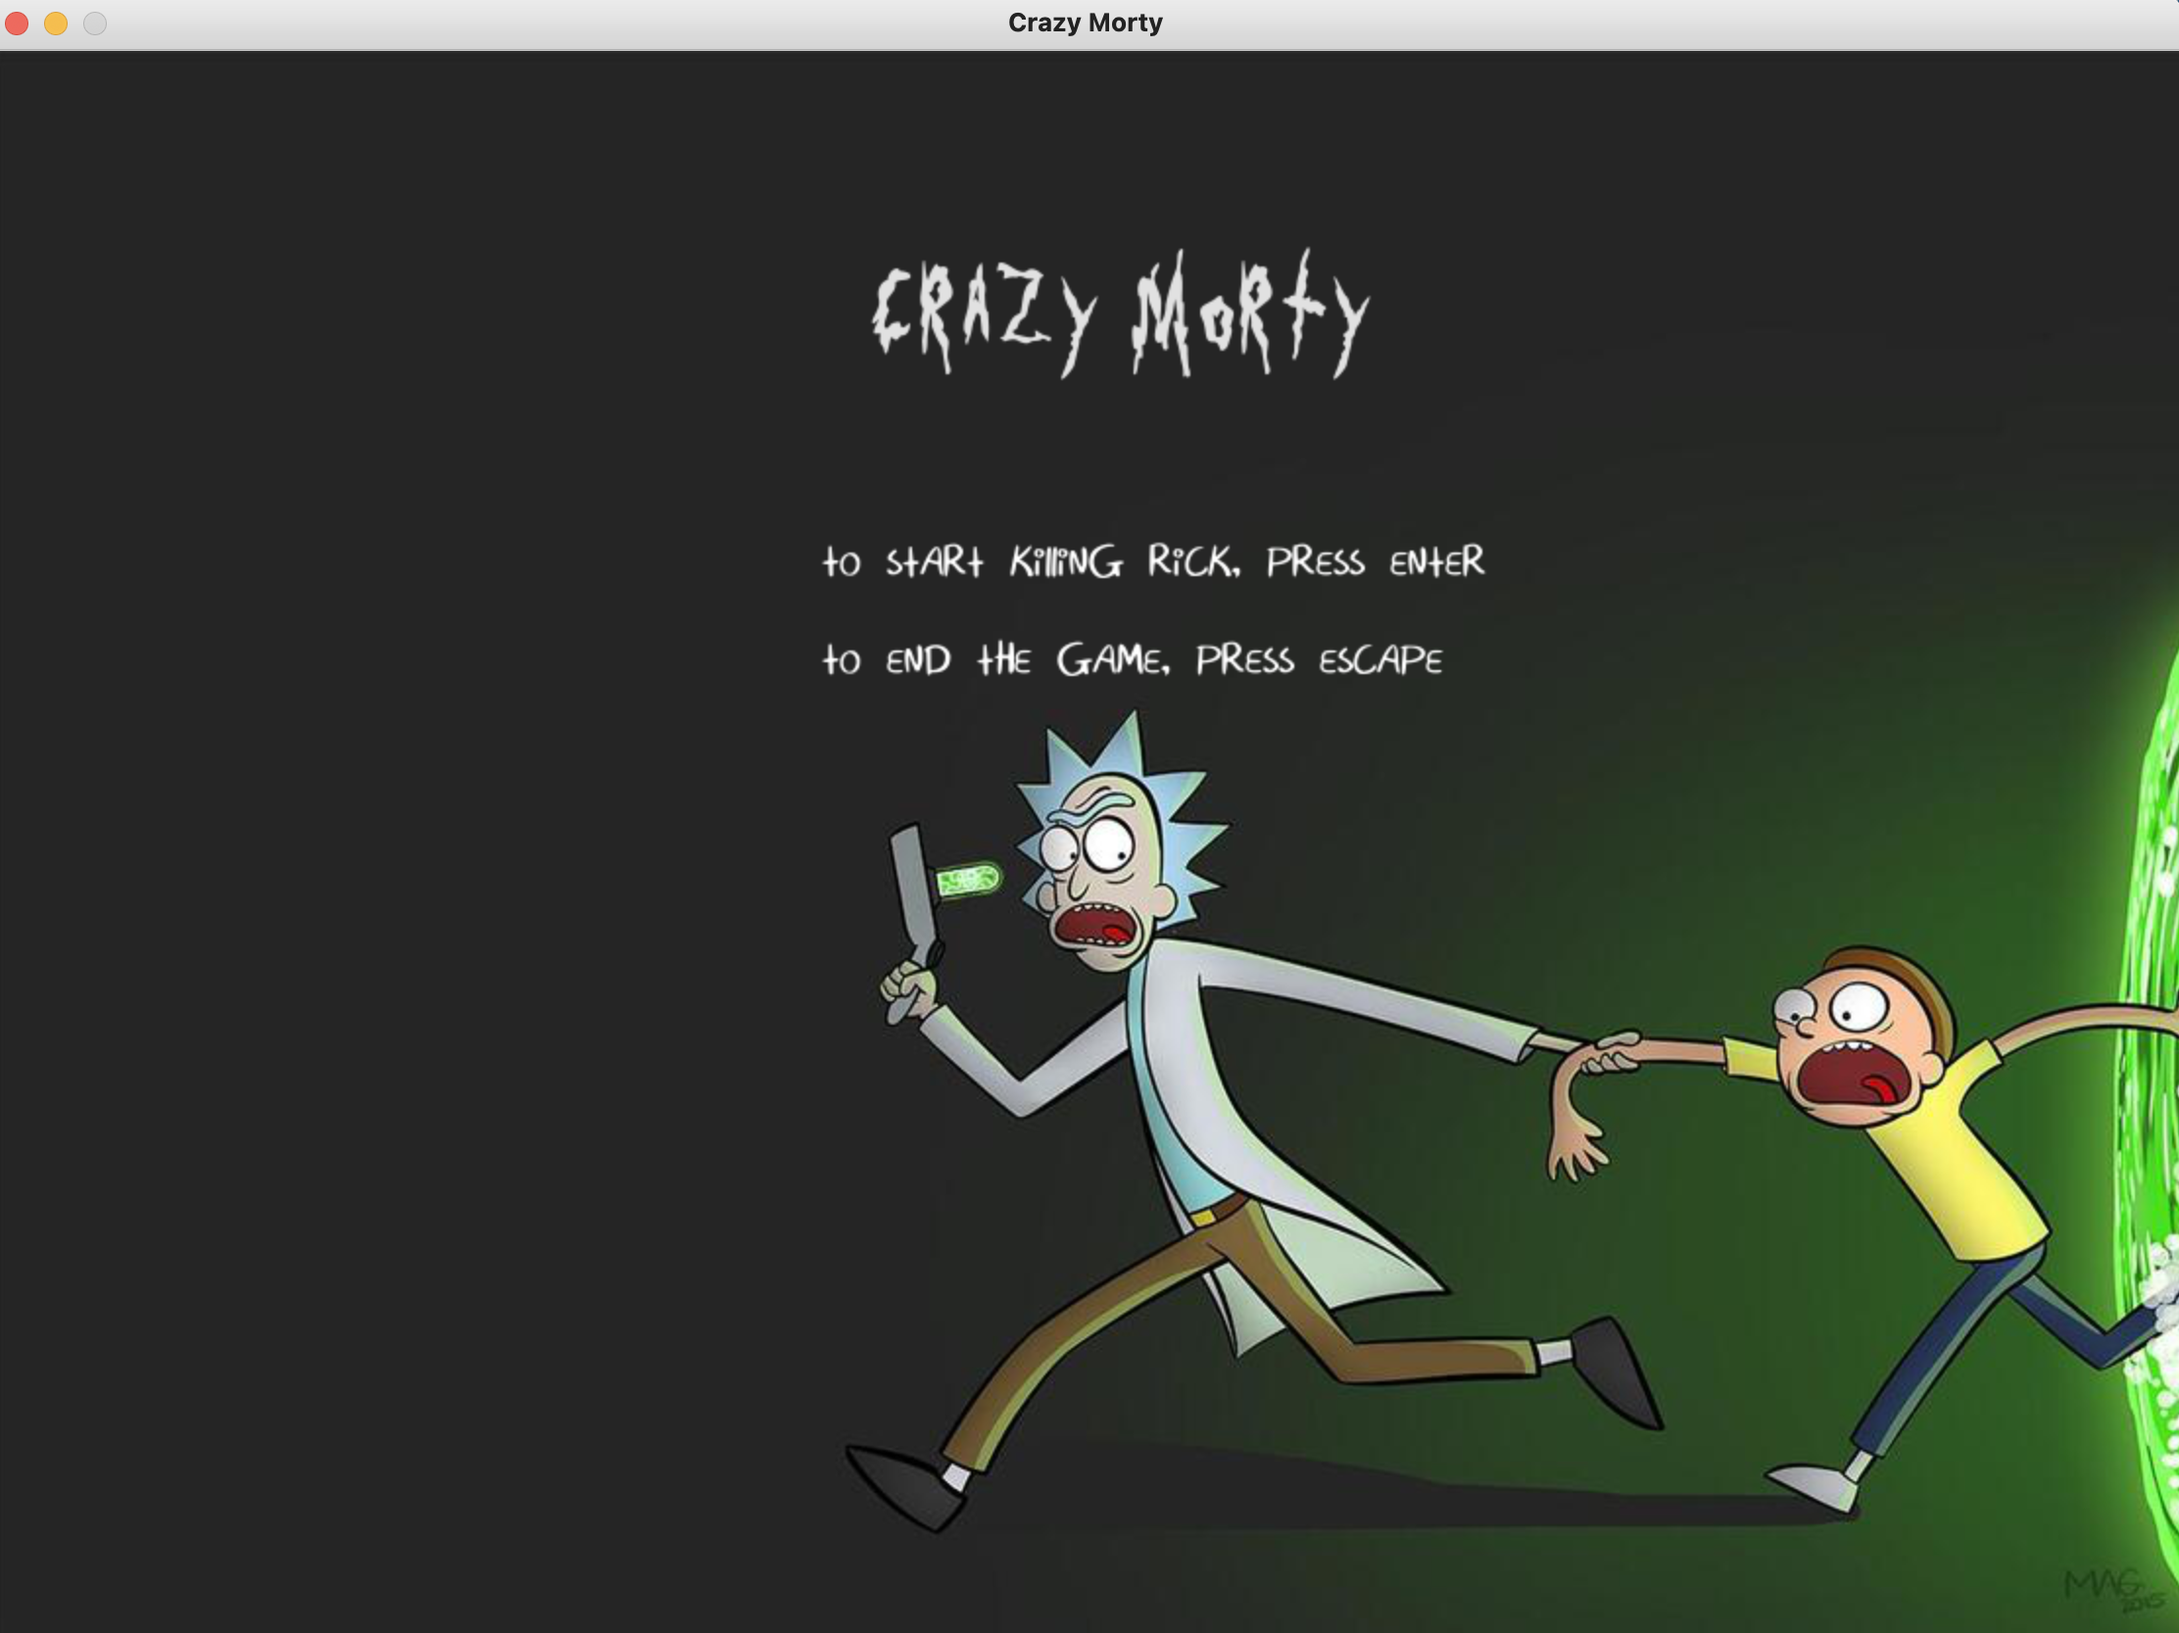
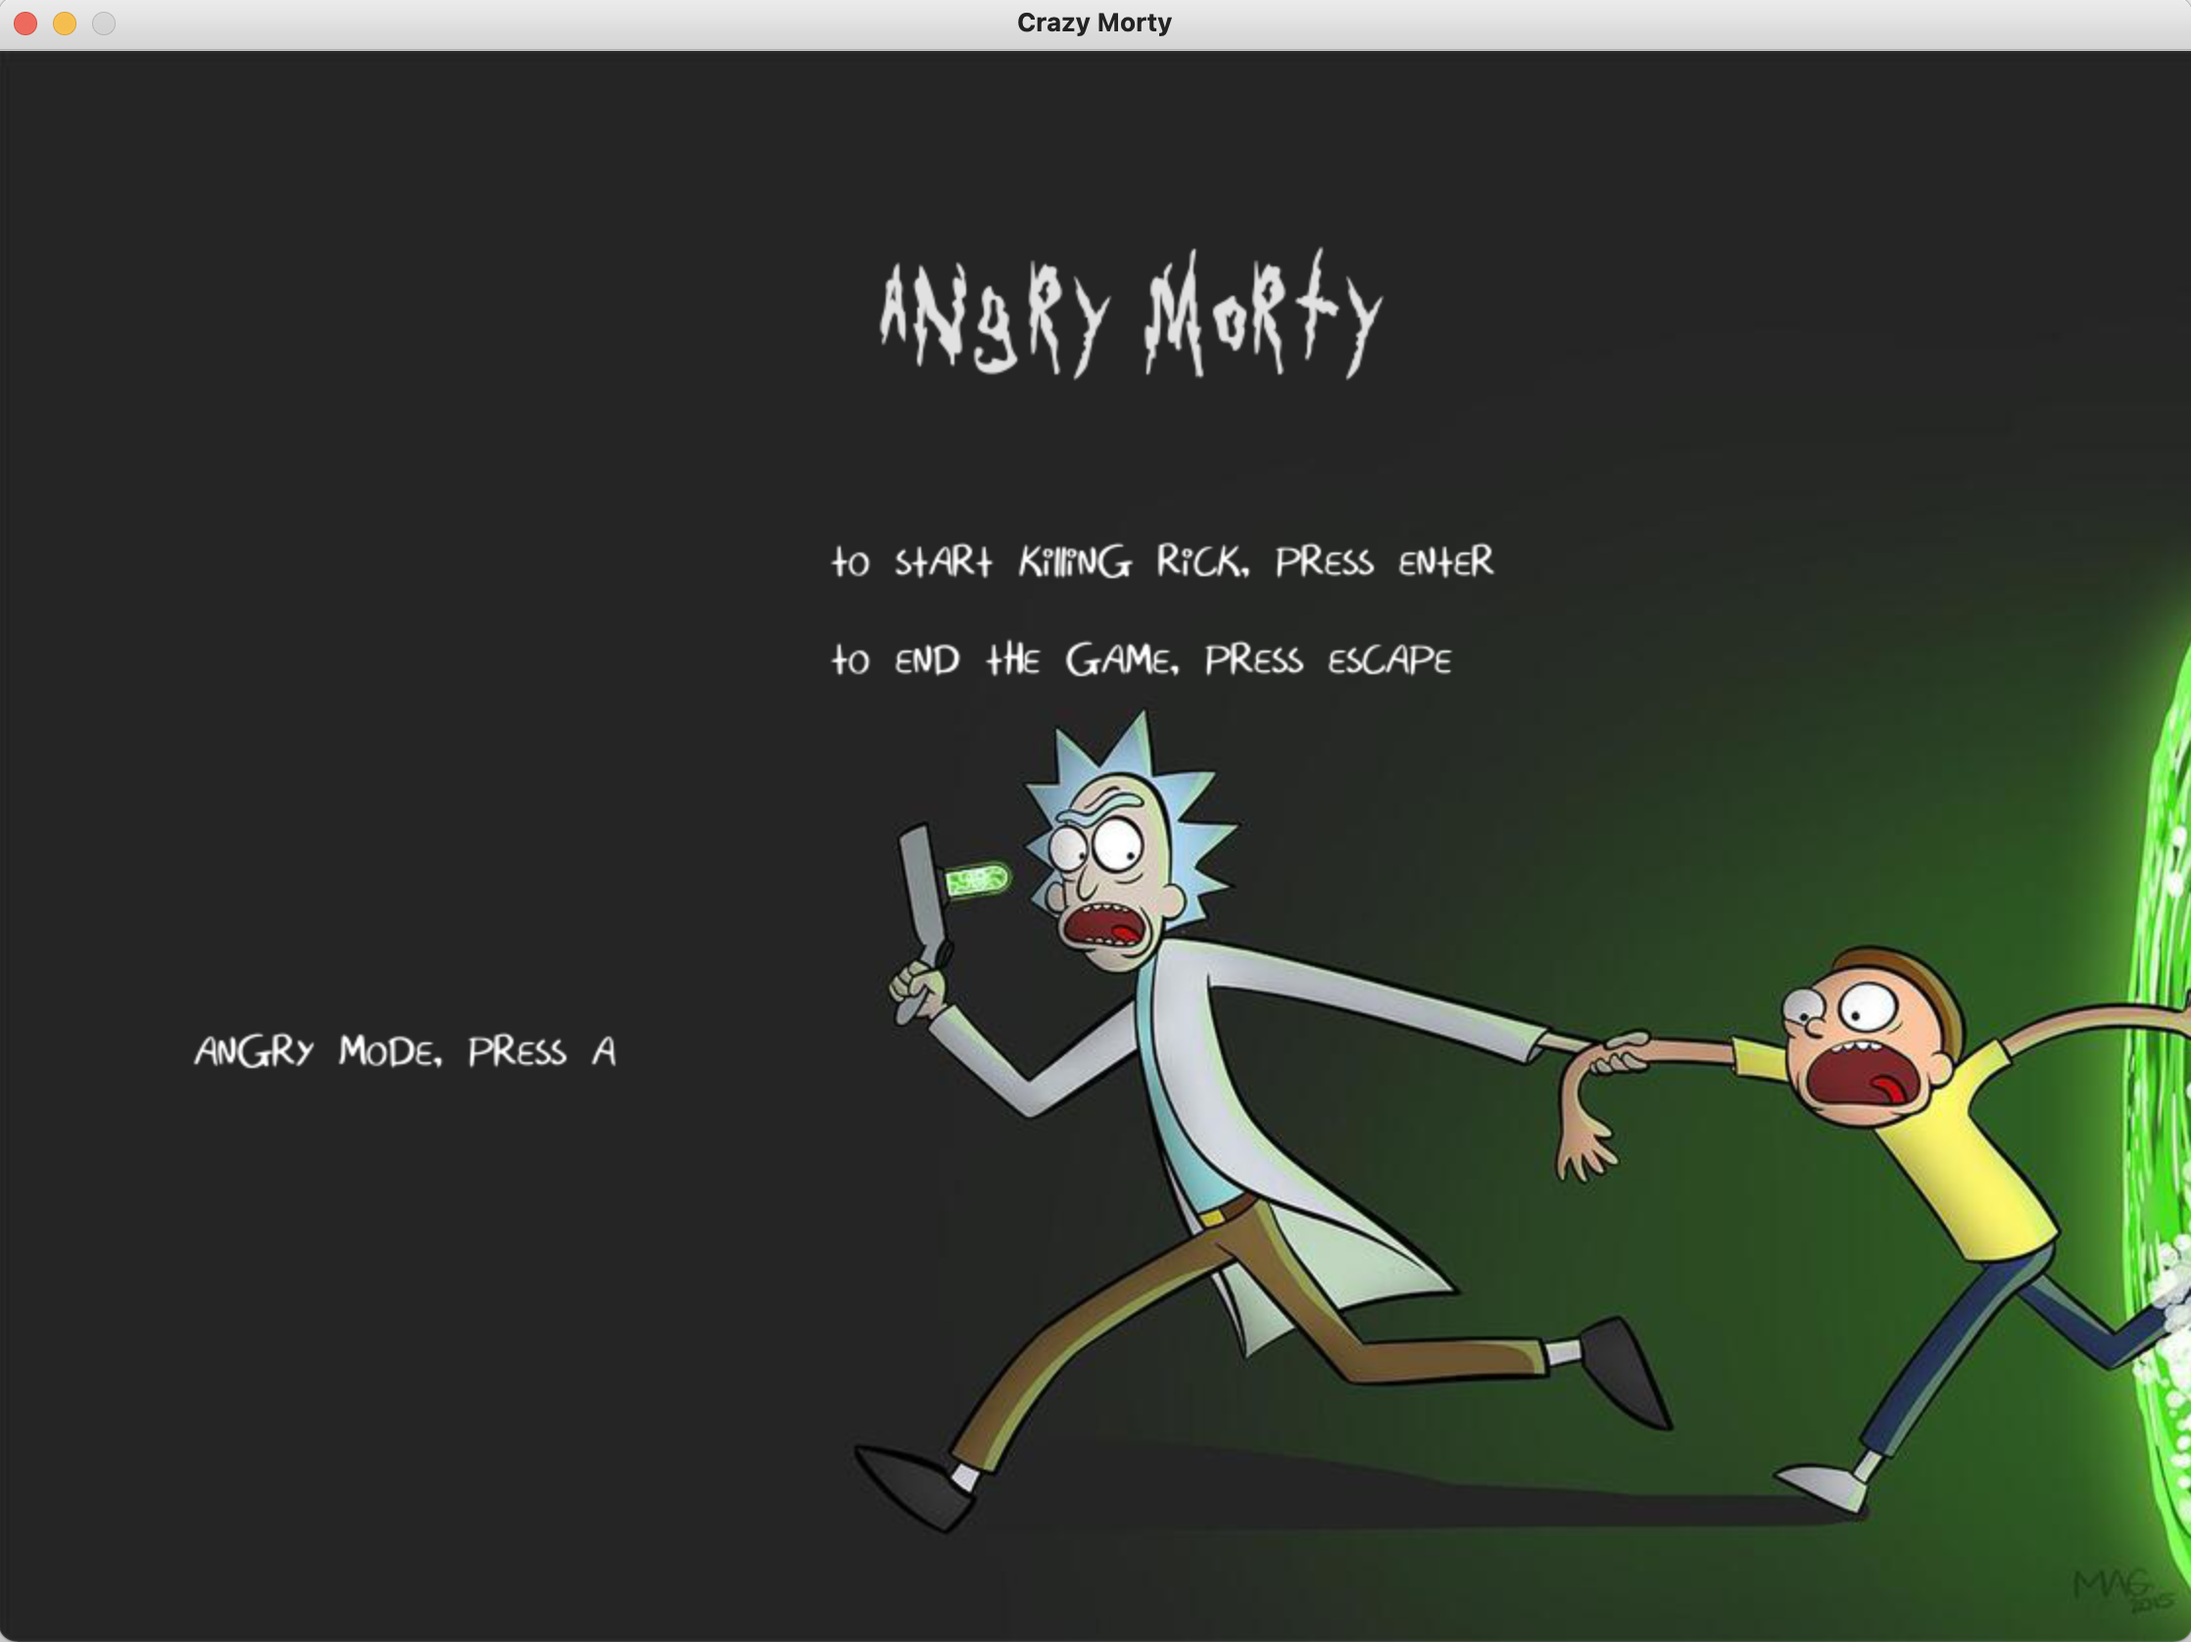
update

diff --git a/angrymorty.py b/angrymorty.py
@@ -187,7 +187,7 @@ class Game:
         # Initialize all imported pygame modules
         pygame.init()
         # Set the current window caption
-        pygame.display.set_caption('Crazy Morty')
+        pygame.display.set_caption('Angry Morty')
         # Initialize a window or screen for display
         self.surface = pygame.display.set_mode(size=(1120, 812))
         # Initialize the mixer module, where the mixer module is a pygame module for loading and playing sounds
@@ -275,7 +275,7 @@ class Game:
         self.display_speed()
         # Display the best score
         self.display_score()
-        # Display the title of the game, i.e. either Crazy Morty or Angry Mode
+        # Display the title of the game, i.e. either Angry Morty or Angry Mode
         self.display_title()
         # Update the screen
         pygame.display.flip()
